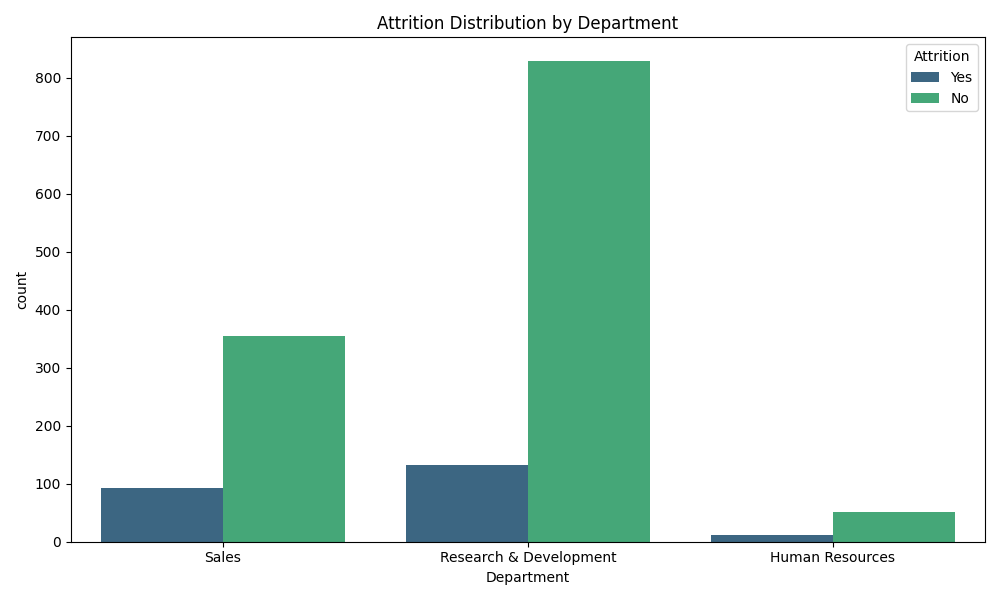
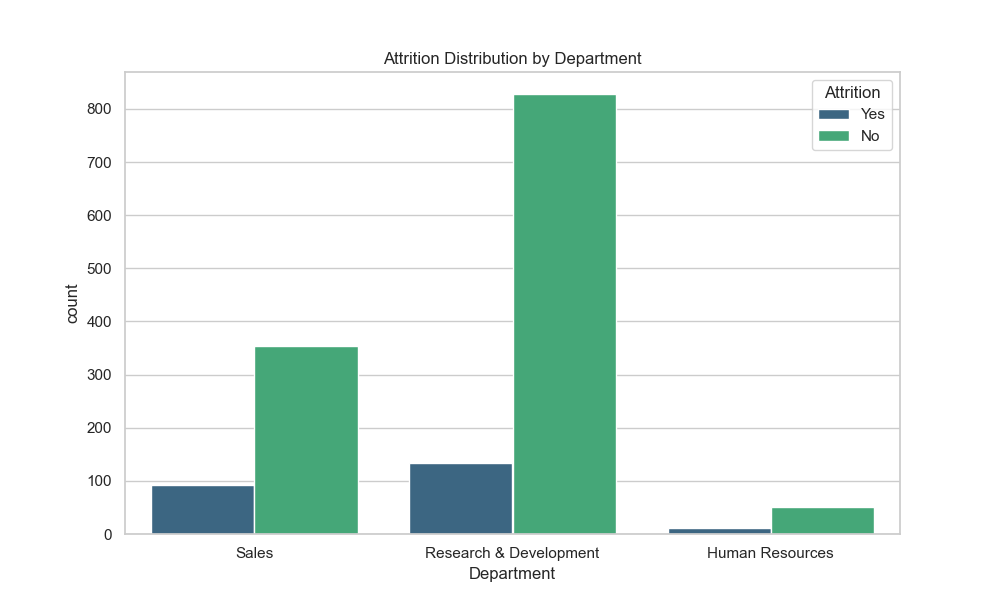
new folders

diff --git a/projects/ibm-hr-analysis/analysis.py b/projects/ibm-hr-analysis/analysis.py
@@ -50,7 +50,9 @@ if df_corr.shape[1] >= 2:
     plt.title('IBM HR Correlation Heatmap', fontsize=15)
     plt.tight_layout()
     
-    # Salvataggio
+    # Salvataggio - rimuovi attributo di sola lettura se presente
+    if os.path.exists(path_heatmap):
+        os.chmod(path_heatmap, 0o666)  # Rendi il file scrivibile
     plt.savefig(path_heatmap, dpi=150)
     print(f"Heatmap salvata in: {path_heatmap}")
     plt.show() # Mostra a video
@@ -62,7 +64,10 @@ else:
 plt.figure(figsize=(10, 6))
 sns.countplot(x='Department', hue='Attrition', data=df, palette='viridis')
 plt.title('Attrition Distribution by Department')
-plt.savefig(os.path.join(output_folder, 'chart_attrition_by_dept.png'))
+path_attrition_dept = os.path.join(output_folder, 'chart_attrition_by_dept.png')
+if os.path.exists(path_attrition_dept):
+    os.chmod(path_attrition_dept, 0o666)  # Rendi il file scrivibile
+plt.savefig(path_attrition_dept)
 plt.close()
 
 print("\n--- Analisi completata! Controlla la cartella 'charts' ---")

diff --git a/README.md b/README.md
@@ -51,9 +51,9 @@ I am a Work and Organizational Psychology specialist with expertise in HR Data A
 - **Deliverables**: Interactive Power BI dashboard, statistical visualizations, insight generation framework
 
 ### 4. DEI Analytics: EMEA Dashboard
-[`dei-dashboard-emea`](./hr-analytics-project/dei-projects/dei-dashboard-emea/)
+[`dei-dashboard-emea`](projects/dei-projects/dei-dashboard-emea/)
 - **Focus**: Diversity, Equity, and Inclusion analysis across EMEA regions
-- **Dataset**: Synthetic EMEA DEI data (1,000 employees)
+- **Dataset**: Synthetic EMEA DEI data (10,000 employees)
 - **Tools**: Python (pandas, matplotlib, seaborn)
 - **Key Findings**: 
   - Gender pay gap analysis across regions
@@ -63,7 +63,7 @@ I am a Work and Organizational Psychology specialist with expertise in HR Data A
 - **Impact**: Evidence-based DEI strategy development for multinational organizations
 
 ### 5. Workshop Effectiveness: Inclusive Leadership Analytics
-[`inclusive-leadership-workshop-analytics`](./hr-analytics-project/dei-projects/inclusive-leadership-workshop-analytics/)
+[`inclusive-leadership-workshop-analytics`](projects/dei-projects/inclusive-leadership-workshop-analytics/)
 - **Focus**: Measuring effectiveness of inclusive leadership training programs
 - **Dataset**: Synthetic pre/post workshop survey data (50 participants)
 - **Tools**: Python (pandas, numpy, matplotlib, seaborn, python-pptx)